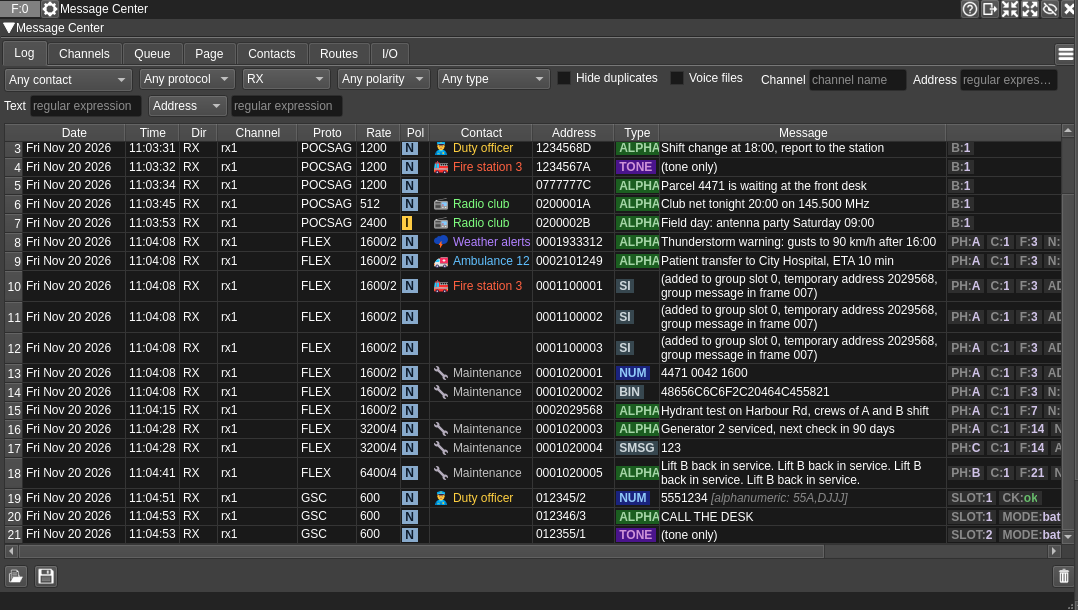
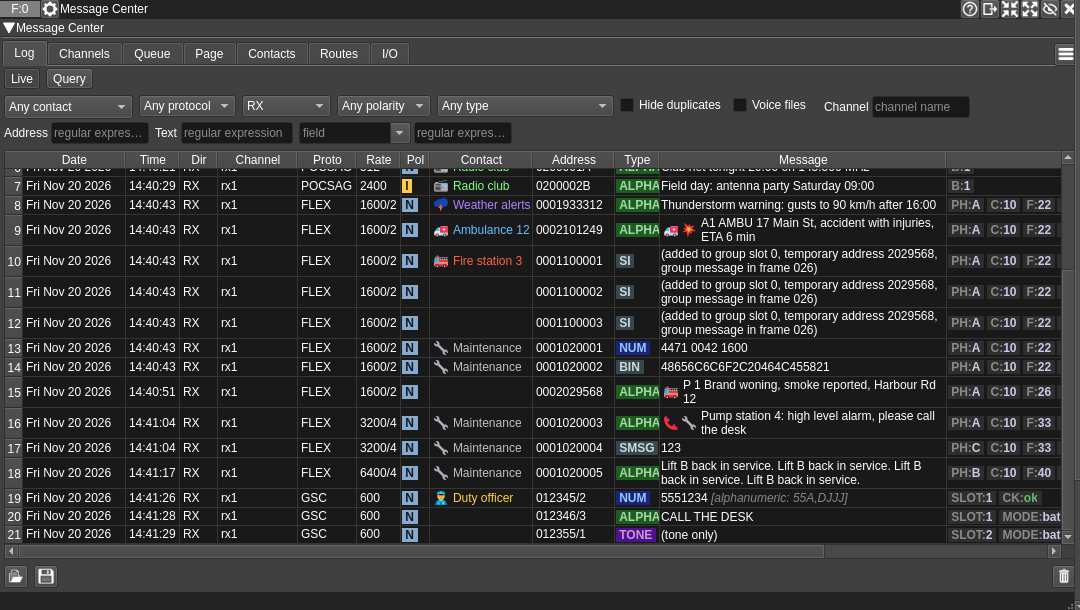
Readmes reviewed; screenshots of the marks, the presets, the query of the log and a mark sink
Message Center: the log with the marks of the Emergency preset, the routes and the route of
the preset, the sinks with the marks, a mark sink, a query of the log; the captions and the
columns of the log. Demodulator: the two decisions of the FLEX symbols, the vector checksum,
vectors of no words, short messages and secure messages, the table holding still, the new
record fields. Modulator: the address of the example is a string, the table holding still.

diff --git a/plugins/feature/messagecenter/readme.md b/plugins/feature/messagecenter/readme.md
@@ -15,7 +15,7 @@ The channels publish their messages as message records on the "messages" pipe, a
 
 <h2>Interface</h2>
 
-![Message Center plugin GUI: the messages received over the air from a Radio Paging modulator, POCSAG at 512, 1200 and 2400 baud (one inverted), FLEX 1600/2, 3200/4 and 6400/4 and GSC, with their contacts](../../../doc/img/MessageCenter_plugin.png)
+![Message Center plugin GUI: the messages received over the air from a Radio Paging modulator, POCSAG at 512, 1200 and 2400 baud (one inverted), FLEX 1600/2, 3200/4 and 6400/4 and GSC, with their contacts and the marks of the Emergency preset](../../../doc/img/MessageCenter_plugin.png)
 
 The window has a tab for each section: Log, Channels, Queue, Page, Contacts, Routes and I/O. The button at the right of the tabs opens the options.
 
@@ -26,13 +26,15 @@ The messages received and sent, newest at the bottom.
 * Live: the newest 100 messages the filters select, as they come. While a row is selected or the table is scrolled up, the rows stay where they are: the new messages wait, and a button in the corner of the table counts them; they come when it is clicked, or when the table is at the bottom again with no row selected.
 * Query: the messages of a time range the filters select, over the history (the log when the history is not kept): the last 5 minutes, hour, day, 7 days, all, or from a time to a time. The range is fixed when the query is run (Run, a filter changed), so the pages keep it: how many messages it selects, and a page of 100 of them, newest first (Newer, Older). It stays as it is until it is run again; the auto-refresh runs it again every 5 to 60 s (none by default; not while a row is selected).
 
+![Message Center log, a query: the messages received of the last day, 21 of them](../../../doc/img/MessageCenter_plugin_query.png)
+
 * Filters: contact, protocol, direction (RX, TX or both), polarity, message type (the types of the protocol chosen), channel name, address, text, one more field, hide duplicates, voice pages with a file only. All the filters set must match.
   * Address: a regular expression the whole address must match, as the filters of the other plugins of SDRangel: 12345.. for the addresses 1234500 to 1234599.
   * Text: a regular expression found anywhere in the text, not case sensitive: fire, or fire|smoke (^ and $ for its start and end).
   * One more field: a field of the message or of its protocol (the details of a message show them all: capcode, ric, function, mode, group_capcodes...), chosen in the list or typed, and a regular expression its whole value must match: capcode 4071410.. for a range of capcodes. A list (the members of a group message): one of its values.
   
   An expression that is not valid is shown in red and selects nothing. Only the messages the filters select are shown. An address selects the FLEX group messages of which it is a member too (the members received with the assignments).
-* The table has the columns of the message tables of the channels: time, direction, channel, protocol, rate, polarity, address, type, message, fragment, info, errors and state. Right click on the header selects the columns. The direction is RX (received) or TX (sent by its channel); a page posted to the Message Center that is not sent yet is QU while it is in the queue and NS (not sent) when it failed, was cancelled or is no longer queued (the queue is not kept when SDRangel is restarted). The tooltip of QU and NS gives the state and the reason, e.g. "waiting: tx1 sends pocsag now, not flex".
+* The table has the columns of the message tables of the channels: date, time, direction, channel, protocol, rate, polarity, contact, address, type, message, fragment, info, errors and state. Right click on the header selects the columns. The direction is RX (received) or TX (sent by its channel); a page posted to the Message Center that is not sent yet is QU while it is in the queue and NS (not sent) when it failed, was cancelled or is no longer queued (the queue is not kept when SDRangel is restarted). The tooltip of QU and NS gives the state and the reason, e.g. "waiting: tx1 sends pocsag now, not flex".
 * A click on the icon of a voice message plays its file. Double click on a message opens a window with all the fields of its record: the common fields, protocolData (the flags and parameters of the protocol) and the raw payload, also as bits.
 * Right click on a message: details, copy the cell, the row or the record as JSON, play the voice, select the audio output, and decode a received message again as the other type or with another codepage of its protocol.
 * Decode as, All codepages...: a window with the message decoded with every codepage of its protocol (and as numeric, POCSAG and GSC), a row each; the reading shown is in bold. Right click on a row: Create route..., the route dialog filled to decode the messages of the address so.
@@ -91,9 +93,9 @@ A page can go to a contact instead of a transmitter and an address (`contact` in
 
 Every message is checked against all the routes in their number order (#), not only the first. Each route whose filter selects the message sends it to the sinks of the route: the log, the transmit queue or the sinks of I/O. A route with Stop ends the check for the messages it selects, so the routes after it do not see them. The log is a sink as the others: a message no route sends to it is not logged. A new Message Center has one route, 1 "All messages to the log", without a filter. A sink takes only what a route sends to it.
 
-![Message Center routes: all the messages to the log; those of two contacts to a file, highlighted and said; FLEX warnings highlighted; every message received to a log of the Pager demodulator format](../../../doc/img/MessageCenter_plugin_routes.png)
+![Message Center routes: the Emergency preset, all the messages to the log and a mark for each kind of message](../../../doc/img/MessageCenter_plugin_routes.png)
 
-![A route: the messages received of two contacts](../../../doc/img/MessageCenter_plugin_route.png)
+![A route: the messages whose text has brand, fire or smoke, to the mark Fire](../../../doc/img/MessageCenter_plugin_route.png)
 
 A filter on several contacts (set through the WebAPI) is one item of the contact list. Editing a route keeps what its dialog does not show of its filter.
 
@@ -109,9 +111,9 @@ The filter of a route has the fields of the filter of the log, and the source of
 
 <h3>I/O</h3>
 
-![Message Center sinks and sources: the built in ones, a Pager CSV log, a JSON lines file, a highlight and speech](../../../doc/img/MessageCenter_plugin_io.png)
+![Message Center sinks and sources: the built in ones and the marks of the Emergency preset, with the messages each took](../../../doc/img/MessageCenter_plugin_io.png)
 
-The sources and sinks: where messages come from besides the channels (files read as they grow, UDP), and where the routes send them besides the log and the queue (files, UDP, commands, speech, highlight in the log, the Map). Each has a name and a type. The built in ones come first: the sinks log and queue, the sources channels and api. Double click to edit; a sink renamed is renamed in the routes too. The editor of a sink also chooses the routes that send to it, and can add a route that sends every message to it. The table of the sinks gives the records each took and refused and the routes that send to it (none: it takes nothing). Plus adds a sink or a source, bin removes the one selected. The errors of the sinks and sources are shown below them from the first one.
+The sources and sinks: where messages come from besides the channels (files read as they grow, UDP), and where the routes send them besides the log and the queue (files, UDP, commands, speech, marks in the log, the Map). Each has a name and a type. The built in ones come first: the sinks log and queue, the sources channels and api. Double click to edit; a sink renamed is renamed in the routes too. The editor of a sink also chooses the routes that send to it, and can add a route that sends every message to it. The table of the sinks gives the records each took and refused and the routes that send to it (none: it takes nothing). Plus adds a sink or a source, bin removes the one selected. The errors of the sinks and sources are shown below them from the first one.
 
 Sinks:
 
@@ -120,6 +122,8 @@ Sinks:
 * command: a command run for each message. The command is split into the program and its arguments first, then ${address}, ${message}, ${protocol}, ${type}, ${channel}, ${mode}, ${id}, ${frequency}, ${time} (UTC) and ${0}, ${1}... (the captures of the route) are replaced in the arguments, so a message cannot add arguments or change the program. At most 5 are run in a second; the others are refused and reported.
 * speech: the text, with the same replacements, is said (when SDRangel is built with text to speech).
 * mark: an icon (the icons of the contacts, or an image file), a colour of the text and a colour of the row, each optional (right click on its button: none). The mark is written into the record (protocolData marks) before it is logged: the history, the exports and the WebAPI have it, and it is there again after a restart.
+
+  ![A mark sink: its icon, the colours of the text and of the row (none here), the routes that send to it](../../../doc/img/MessageCenter_plugin_sink.png)
 * map: the position (latitude and longitude) in the text of the message is put on the Map, named by the address.
 
 The actions (command, speech, mark, map) are taken on messages only: not on events, nor on the end of a GSC voice message, which completes its page.

diff --git a/plugins/channelrx/demodradiopaging/readme.md b/plugins/channelrx/demodradiopaging/readme.md
@@ -55,7 +55,9 @@ The fill at the end of an alphanumeric message (the last character, and the one 
 
 A demodulator at 1600 baud, 2 levels, hunts for sync 1 all the time, in both polarities. Sync 1 is accepted with at most 8 bit errors over its 80 bits, or when its two copies of the mode code agree (up to 2 bit errors in one and 3 in the other). A sync 1 with bit errors must also follow the reversals of bit sync 1 (at most 4 bit errors over their last 16 bits). The frame is then received at the rate and number of levels of its mode, its blocks are deinterleaved and its phases (A to D) decoded. Blocks received with a carrier much weaker than during sync 1 are marked erased. The emergency re-synchronization is detected and its length measured.
 
-The address is the capcode in 10 digits. Short, long and temporary addresses, and the message types alphanumeric, secure, numeric, special numeric, numbered numeric, binary, short message and short instruction are decoded. A short message with the tone only payload (every digit a space) is a tone only page. An address without a vector at the end of the address field (a tone only address, allowed by the standard) is not decoded: noise and damaged frames end their address field the same way. Priority, maildrop and retrieval are flags of the message.
+Each data symbol is decided twice: on the mean of the whole symbol (the matched filter, the best in noise) and on the mean of its centre half (without the transitions, the best when the band of the signal is narrow for its rate, as after the audio filter of a receiver at 3200 baud). Each phase is decoded from the decision that loses fewer codewords; a codeword the other decision corrects fills in one that cannot be corrected, except in the address field, where a codeword corrected wrong would be a message to another pager.
+
+The address is the capcode in 10 digits. Short, long and temporary addresses, and the message types alphanumeric, secure, numeric, special numeric, numbered numeric, binary, short message and short instruction are decoded. A short message with the tone only payload (every digit a space) is a tone only page; a short message of type 1 or 2 (a source, a source with a message number) reads "(type:source source:0)" or "(type:numbered source:3 number:17 retrieval)". An address without a vector at the end of the address field (a tone only address, allowed by the standard) is not decoded: noise and damaged frames end their address field the same way. A vector word whose checksum fails (STD-43A 3.5.1) is not read: the code may correct a word wrong, and an all zero word passes it. A message vector of no words is a message of no words: nothing is read after the vector, its raw data is the vector, it reads "(type:secure, no message words)". Secure messages of type 00 are characters, of the other types their data bits as hex. Priority, maildrop and retrieval are flags of the message.
 
 * Long messages are sent in fragments over several frames. Each fragment is output as it is received, then the reassembled message; a message with lost fragments is output as incomplete.
 * Message numbers: the messages with R = 1 of an address are checked for skipped numbers, up to the largest message number of the network, 63 (the WebAPI setting flexMaxMessageNumber sets another).
@@ -182,7 +184,7 @@ The Message Center button next to it opens the Message Center (and adds it when 
 
 ![The fields of a message record](../../../doc/img/RadioPagingDemod_plugin_details.png)
 
-The latest messages, newest at the bottom. The table follows new messages while it is scrolled to the bottom. The end of a GSC voice message updates the row of its voice page. Duplicates are flagged DUP or DUP+ in the info column. Right click on the header selects the columns. A click on the icon of a voice message plays its file. Double click on a message opens a window with all the fields of its record: the common fields, protocolData and the raw payload (also as bits). Right click on a message: details, copy, voice and decode again. Decode as, All codepages... shows the message decoded with every codepage of its protocol; Create route... (on a message, or on a row of that window) opens the route dialog of the Message Center filled from the message.
+The latest messages, newest at the bottom. The table follows new messages while it is scrolled to the bottom. While a row is selected or the table is scrolled up the rows stay where they are: the new messages wait, a button in the corner of the table counts them, and they come when it is clicked or when the table is at the bottom again with no row selected. The end of a GSC voice message updates the row of its voice page. Duplicates are flagged DUP or DUP+ in the info column. Right click on the header selects the columns. A click on the icon of a voice message plays its file. Double click on a message opens a window with all the fields of its record: the common fields, protocolData and the raw payload (also as bits). Right click on a message: details, copy, voice and decode again. Decode as, All codepages... shows the message decoded with every codepage of its protocol; Create route... (on a message, or on a row of that window) opens the route dialog of the Message Center filled from the message.
 
 * Time - time the message was received (hover for the date)
 * Proto - POCSAG, FLEX or GSC
@@ -204,7 +206,7 @@ The latest messages, newest at the bottom. The table follows new messages while 
 Each message is published on the "messages" pipe as a message record with the protocol, mode, speed, address, polarity, type, text, raw payload (rawData, rawBits), error counts, duplicate, the absolute frequency and the channel (title, device set and channel index, tuning). The protocol specific fields are in protocolData:
 
 * POCSAG: function, batch, truncated, word_status (one character for each message codeword: . received, c corrected, X uncorrectable), char_status (the same for each character of the text), and the type decision: score, alt_type, alt_text, alt_score
-* FLEX: capcode, long_address, addr_type, priority, maildrop, retrieval, cycle, frame, phase, message_number, fragmented, fragment_count, complete, is_fragment, fragment_gap, checksum, signature, kanji, word_map, words_corrected, quality; for alphanumeric and secure messages char_status (one character for each character of the text: . received, c corrected, X lost) and alpha_codes and code_status (the 7-bit characters and their status, to decode them again); for group messages group_slot, group_tracked and group_capcodes; for short instructions instruction_type, instruction_data (the 14 bits of the vector), instruction_slot and instruction_frame, and event_flags for a system event
+* FLEX: capcode, long_address, addr_type, priority, maildrop, retrieval, cycle, frame, phase, message_number, fragmented, fragment_count, complete, is_fragment, fragment_gap, checksum, signature, kanji, word_map, words_corrected, quality; for alphanumeric and secure messages char_status (one character for each character of the text: . received, c corrected, X lost) and alpha_codes and code_status (the 7-bit characters and their status, to decode them again); for group messages group_slot, group_tracked and group_capcodes; for short instructions instruction_type, instruction_data (the 14 bits of the vector), instruction_slot and instruction_frame, and event_flags for a system event; for short messages short_type, short_source; for secure messages secure_type and payload_unknown; no_words for a message vector of no words
 * GSC: function, address_number, preamble, batch, slot, non_battery_saver, truncated; for data pages checksum_errors, checksum_passed and the type decision; for voice pages voice_end (turn_off, new_transmission, timeout, signal_lost), voice_seconds and voice_file when recorded; for tone only pages interleaved
 
 All records have interpretedBy = decoder.

diff --git a/plugins/channeltx/modradiopaging/readme.md b/plugins/channeltx/modradiopaging/readme.md
@@ -102,7 +102,7 @@ The composer of a message:
 * State (idle, ramp up, transmitting, ramp down), the message being sent, the messages waiting and sent.
 * Clear drops the messages waiting. Abort drops them and, in one-shot mode, ends the transmission being sent.
 * Message Center opens the Message Center (and adds it when there is none).
-* The table of the last messages transmitted: queued, sent or dropped, with the message number, fragments and copies of FLEX messages. A click on the icon of a voice message plays the voice sent. Double click on a message opens all the fields of its record. Right click on the header selects the columns.
+* The table of the last messages transmitted: queued, sent or dropped, with the message number, fragments and copies of FLEX messages. A click on the icon of a voice message plays the voice sent. Double click on a message opens all the fields of its record. Right click on the header selects the columns. While a row is selected or the table is scrolled up, the new rows wait (a button in the corner counts them) so that the rows do not move.
 * The log of the messages queued and of the requests refused. A page from the Message Center or the API is logged with its address, type and text.
 
 <h2>Message records</h2>
@@ -123,4 +123,4 @@ Actions: `RadioPagingModActions`:
 Example: send an alphanumeric message to POCSAG address 1234567, function D, on channel 0 of device set 1:
 
     curl -X POST "http://127.0.0.1:8091/sdrangel/deviceset/1/channel/0/actions" \
-      -d '{"channelType": "RadioPagingMod", "direction": 1, "RadioPagingModActions": {"tx": {"address": 1234567, "function": 3, "type": "alphanumeric", "text": "HELLO"}}}'
+      -d '{"channelType": "RadioPagingMod", "direction": 1, "RadioPagingModActions": {"tx": {"address": "1234567", "function": 3, "type": "alphanumeric", "text": "HELLO"}}}'
